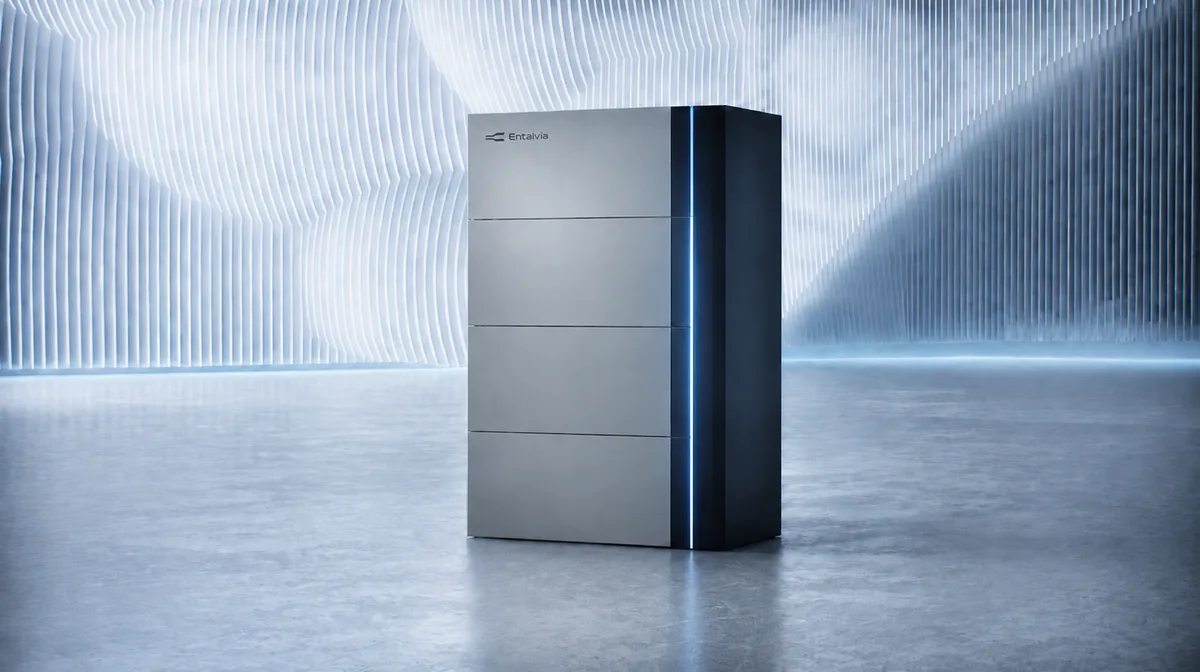
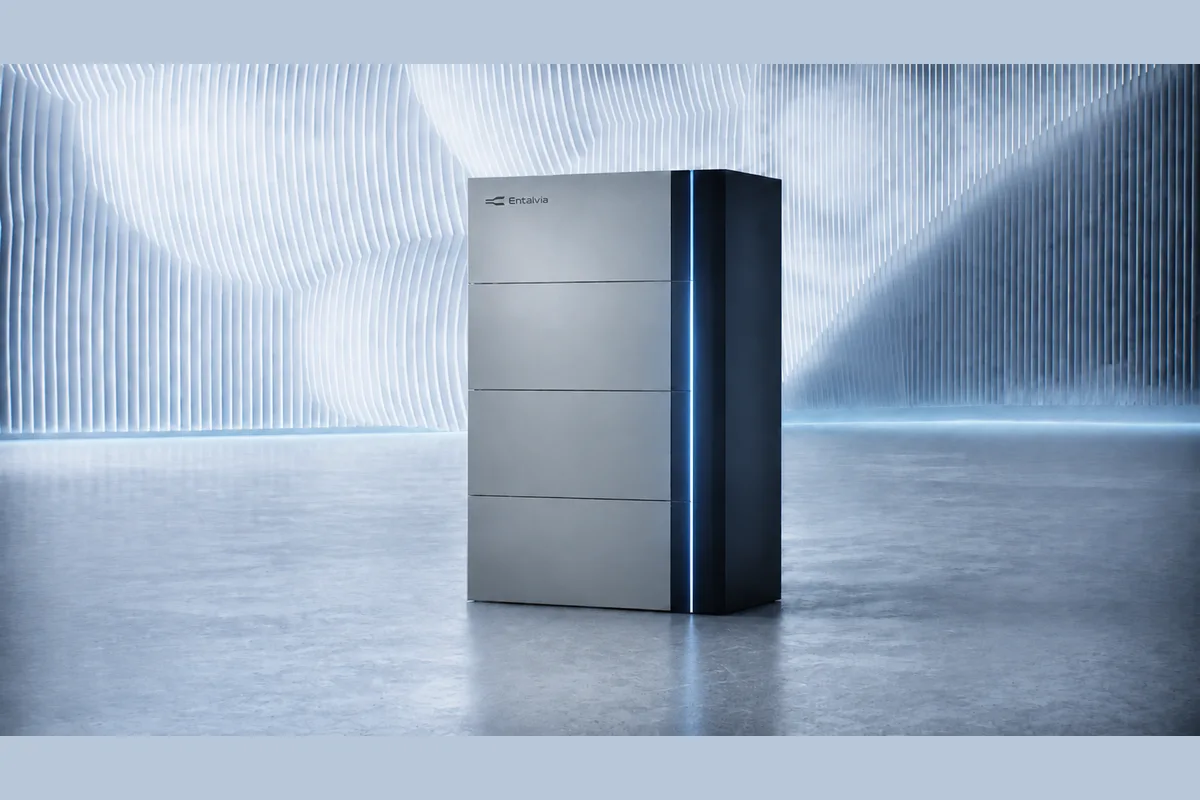
Widoczny promien na zdjeciach, plynny tekst, nowa tresc otwierajaca
PROMIEN NIE BYL WIDOCZNY, choc stal w arkuszu: przy `object-fit: contain`
obraz nie dotykal rogow ramki, wiec zaokraglac nie bylo czego. Pliki sa
teraz DOPELNIONE do 3:2 barwa wlasnej krawedzi (srednia z pasa przy tym
boku, ktory idzie do brzegu ramki — szwu nie widac), wiec wypelniaja ramke
co do piksela i `cover` niczego nie obcina. Promien z tokenu --radius,
tego samego, ktorym zaokraglone sa karty aplikacji.

Akapit skaluje sie plynnie (clamp 0,9–1 rem): na waskim ekranie schodzi
do 14,6 px i robi miejsce wizualizacjom, ktore maja zostac widoczne
w calosci na kazdej szerokosci.

Tresc otwierajaca przepisana — zdanie o bateriach termicznych wyroznione
i w barwie tekstu glownego, "stygnac" zamienione na "tracic parametr"
(dziala dla ciepla i chlodu), "energia wlasna" doprecyzowana jako
"pochodzi z wlasnego zrodla".

diff --git a/web/src/styles.css b/web/src/styles.css
@@ -1159,9 +1159,19 @@ code {
 .start__akapit {
   margin: 1.25rem 0 0;
   max-width: 40rem;
-  font-size: 1rem;
+  /* Tekst kurczy się razem z oknem, żeby zrobić miejsce wizualizacjom —
+     one mają zostać widoczne w całości na każdej szerokości, a akapit jest
+     tym, co bez szkody może zejść o kilka punktów. */
+  font-size: clamp(0.9rem, 0.82rem + 0.4vw, 1rem);
   line-height: 1.6;
   color: var(--ink-soft);
+}
+
+/* Zdanie otwierające pełni funkcję śródtytułu — mocniejsze i w barwie
+   tekstu głównego, żeby wybijało się z akapitu opisowego. */
+.start__akapit strong {
+  font-weight: 600;
+  color: var(--ink);
 }
 
 /* Pasek trzech faktów (12 sond / 5 s / 2 materiały), nadpis z nazwami
@@ -1286,11 +1296,18 @@ code {
    na obrazie odwołuje się z powrotem do tego wiersza — zależność kołowa, którą
    przeglądarka rozstrzyga na korzyść treści. Skutkiem ramka laptopa wychodziła
    528×396 zamiast 528×352 i kafle znów były nierówne. Bezwzględne umieszczenie
-   obrazów w ramce o zadanej proporcji zrywa to sprzężenie. */
+   obrazów w ramce o zadanej proporcji zrywa to sprzężenie.
+
+   PLIKI SĄ DOPEŁNIONE DO 3:2 barwą własnej krawędzi (patrz `narzedzia`), więc
+   wypełniają ramkę co do piksela. Dlatego `cover`, nie `contain`: przy
+   `contain` obraz nie dotykał rogów i zaokrąglenie w ogóle nie było widoczne,
+   mimo że stało w arkuszu. Żaden kadr przez to nie ginie — dopełnienie zrównało
+   proporcje wcześniej, na etapie eksportu. */
 .wiz {
   position: relative;
   aspect-ratio: 3 / 2;
-  border-radius: 18px;
+  border-radius: var(--radius);
+  overflow: hidden;
 }
 
 .wiz__obraz {
@@ -1298,12 +1315,12 @@ code {
   inset: 0;
   width: 100%;
   height: 100%;
-  object-fit: contain;
+  object-fit: cover;
   display: block;
-  /* Zaokrąglenie NA SAMYM OBRAZIE, nie tylko na obudowie: przy przejściu
-     kryciem widać obie warstwy naraz i przycięcie rodzica gubi róg tej
-     spodniej w chwili, gdy jest jeszcze częściowo widoczna. */
-  border-radius: 18px;
+  /* Promień także na obrazie, nie tylko na ramce: przy przenikaniu widać obie
+     warstwy naraz, a `overflow` rodzica przycina je z opóźnieniem jednej
+     klatki — bez tego róg spodniej warstwy mruga w chwili zmiany nośnika. */
+  border-radius: var(--radius);
   opacity: 0;
   transition: opacity 900ms ease;
 }

diff --git a/web/src/components/Logowanie.tsx b/web/src/components/Logowanie.tsx
@@ -310,11 +310,11 @@ export function Logowanie({ onSuccess }: { onSuccess: () => void }) {
               wersja zaczynała od „materiału zmiennofazowego" i budowy złoża,
               czyli od rzeczy, która obchodzi inżyniera, a nie kupującego. */}
           <p className="start__akapit">
-            Entalvia magazynuje energię cieplną w przemianie fazowej — nie w podgrzanej wodzie.
-            Ten sam zapas ciepła albo chłodu mieści się w kilkukrotnie mniejszej objętości
-            i utrzymuje stałą temperaturę roboczą, zamiast stygnąć od pierwszej minuty.
-            Ładujesz wtedy, gdy energia jest tania albo własna, oddajesz wtedy, gdy jest
-            potrzebna.
+            <strong>Entalvia to magazyny ciepła i chłodu złożone z baterii termicznych.</strong>{' '}
+            Baterie kumulują energię w przemianie fazowej. Ten sam zapas ciepła albo chłodu
+            mieści się w kilkukrotnie mniejszej objętości i utrzymuje stałą temperaturę
+            roboczą, zamiast tracić parametr od pierwszej minuty. Ładujesz wtedy, gdy energia
+            jest tania albo pochodzi z własnego źródła, oddajesz wtedy, gdy jest potrzebna.
           </p>
 
           <p className="start__akapit start__akapit--wtorny">
